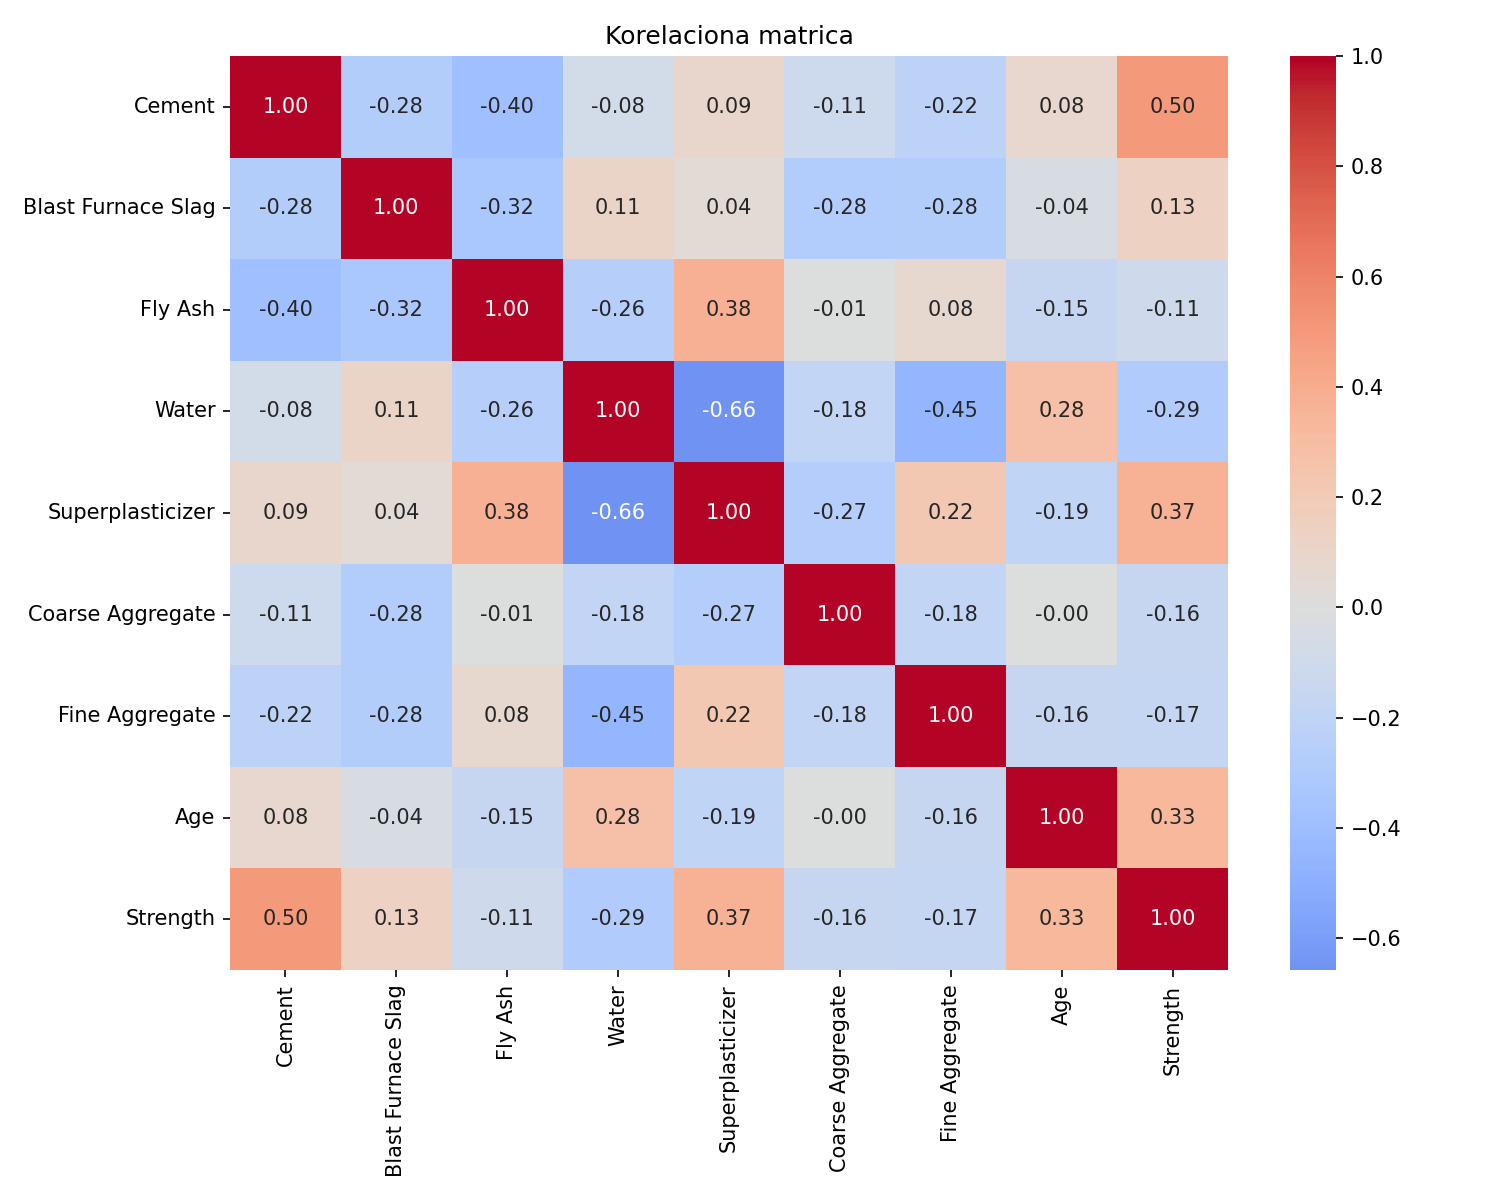
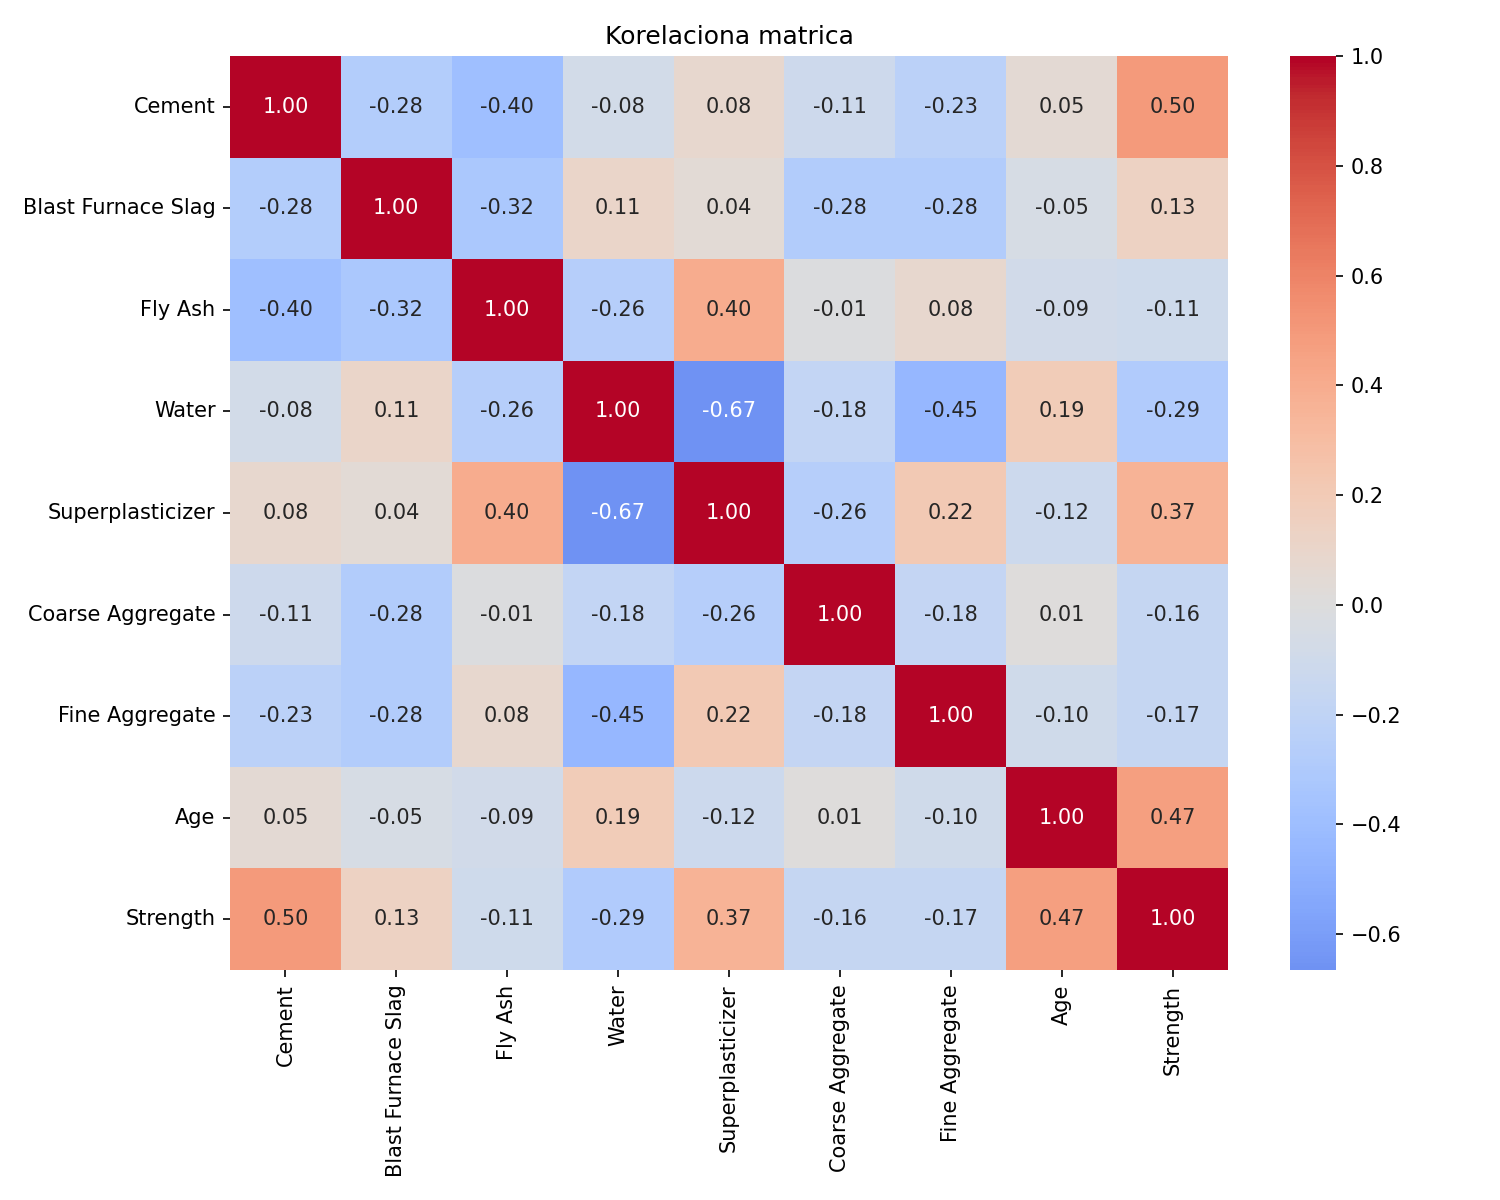
Compare boxplots before and after IQR outlier capping
Import cap_outliers from the preprocessing module and update the visualization workflow to compare data before and after outlier capping: plot_boxplots() now labels and saves the pre-capping plot as boxplots_before.png, and a new plot_boxplots_after() function generates and saves boxplots after capping is applied.

diff --git a/src/visualization.py b/src/visualization.py
@@ -2,7 +2,7 @@ import matplotlib.pyplot as plt
 import pandas as pd
 import seaborn as sns
 
-from preprocessing import load_data, FEATURE_COLS, TARGET_COL
+from preprocessing import load_data, cap_outliers, FEATURE_COLS, TARGET_COL
 
 FIGURES_DIR = "figures/"
 
@@ -56,9 +56,28 @@ def plot_boxplots(df):
         axes[i].set_title(col)
         axes[i].set_ylabel("Vrednost")
 
-    plt.suptitle("Box plotovi- pregled outliera po promenljivoj", fontsize=13)
+    plt.suptitle("Box plotovi — pre cappinga", fontsize=13)
     plt.tight_layout()
-    plt.savefig(FIGURES_DIR + "boxplots.png", dpi=150)
+    plt.savefig(FIGURES_DIR + "boxplots_before.png", dpi=150)
+    plt.show()
+
+
+def plot_boxplots_after(df):
+    cols = FEATURE_COLS + [TARGET_COL]
+
+    fig, axes = plt.subplots(3, 3, figsize=(14, 10))
+    axes = axes.flatten()
+
+    for i, col in enumerate(cols):
+        axes[i].boxplot(df[col], patch_artist=True,
+                        boxprops=dict(facecolor="steelblue", color="navy"),
+                        medianprops=dict(color="white", linewidth=2))
+        axes[i].set_title(col)
+        axes[i].set_ylabel("Vrednost")
+
+    plt.suptitle("Box plotovi — nakon cappinga", fontsize=13)
+    plt.tight_layout()
+    plt.savefig(FIGURES_DIR + "boxplots_after.png", dpi=150)
     plt.show()
 
 
@@ -122,6 +141,8 @@ if __name__ == "__main__":
     print_data_overview(df)
     plot_strength_distribution(df)
     plot_boxplots(df)
-    plot_scatter_vs_strength(df)
-    plot_age_vs_strength(df)
-    plot_correlation_heatmap(df)
+    df_capped = cap_outliers(df)
+    plot_boxplots_after(df_capped)
+    plot_scatter_vs_strength(df_capped)
+    plot_age_vs_strength(df_capped)
+    plot_correlation_heatmap(df_capped)
